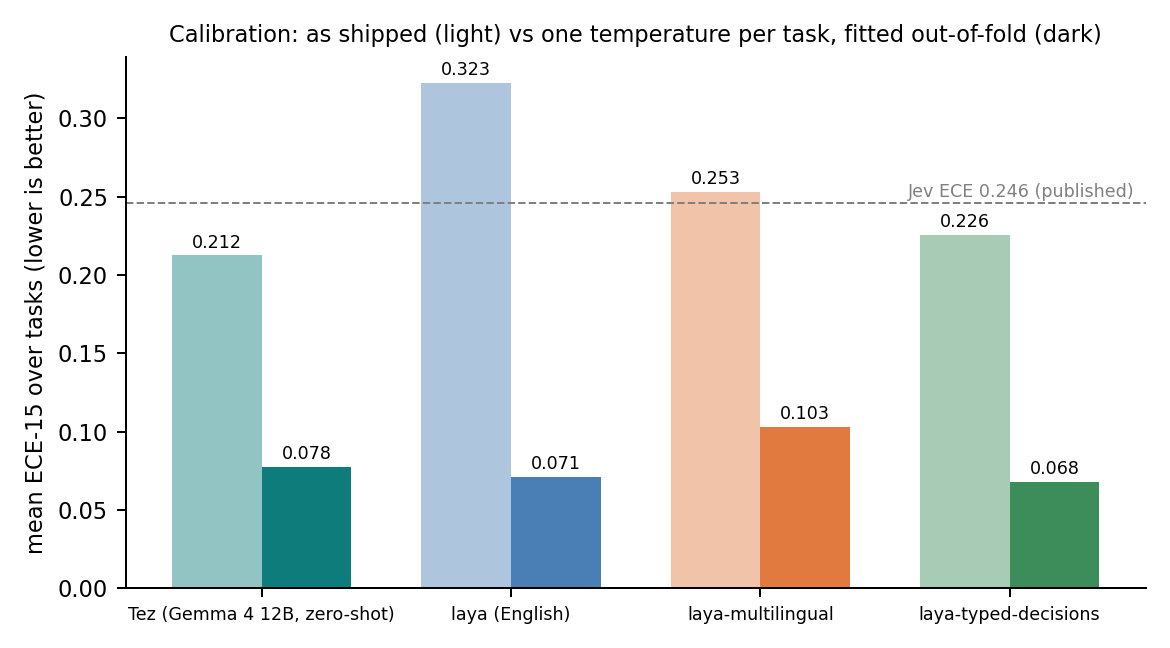
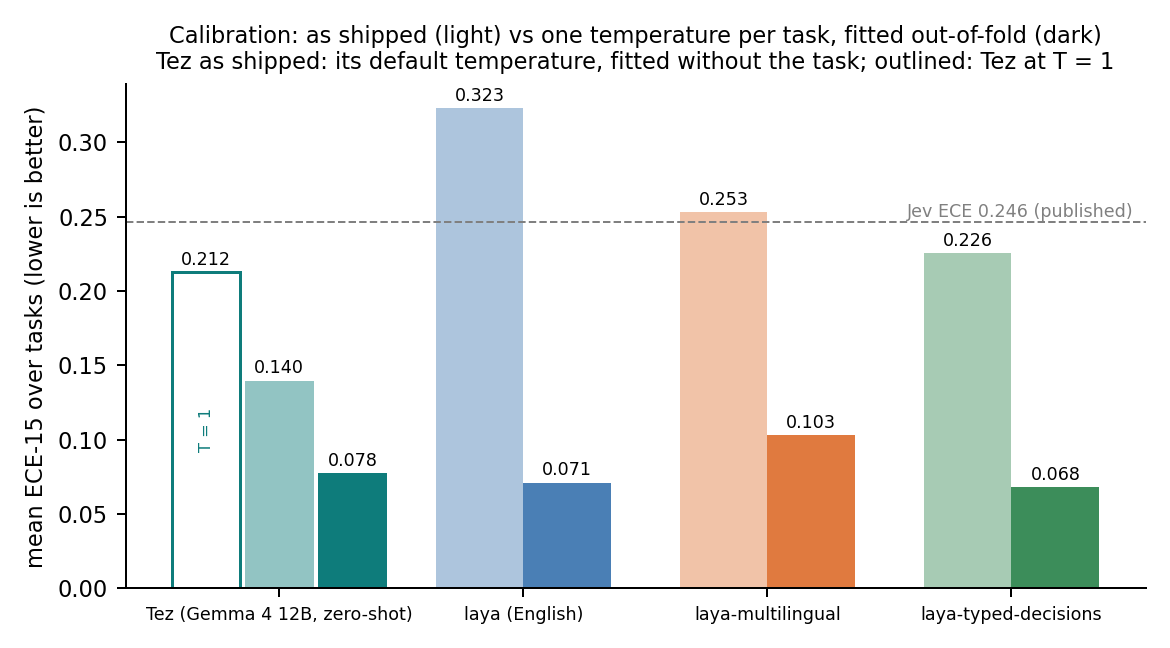
Research page: calibration figure shows Tez's default temperature
experiments/make_h2h_plots.py drew Tez's temperature-1 ECE (0.212) as
'as shipped'. Tez now ships its default temperature, so its light bar is
the default fitted without the task scored (0.140, the mean over the same
28 entries in results/calibration/default_temperature.json, anchor_28;
the script checks the entries and the T = 1 mean match
results/h2h/summary.json), T = 1 is drawn outlined beside it, and the
per-task refit stays 0.078. Laya's bars are unchanged. Only
calibration.png/.pdf are regenerated; the site copy carries the same
provenance text as before.

The research page caption gives the three Tez values, and the highlight
comparing the probe's ECE with the 12B's raw letters says 0.262 is at
temperature 1 and 0.051 at the default (typed-decisions).

diff --git a/site/research.html b/site/research.html
@@ -133,7 +133,7 @@
           <li><strong>Decide first, bind later.</strong> A probe trained on the usual option order still works on reversed options up to layer 14 and loses 20 points at layer 26: read at layer 18 if a schema may reorder its options.</li>
           <li><strong>A decision needs 64 numbers.</strong> One PCA learned from unlabelled traffic keeps 0.790 of 0.793, and a PCA learned on other workflows keeps 0.782 on a new one.</li>
           <li><strong>Label the typical rows first, and keep the zero-shot prior.</strong> Fifty typical labels per question on top of the 12B's zero-shot answers reach 0.766, the level of Laya's checkpoint fine-tuned on the whole train split.</li>
-          <li><strong>Calibrated as it comes.</strong> A logistic probe has an ECE of 0.023 as read, against 0.262 for the 12B's raw letters and 0.246 published for Jev.</li>
+          <li><strong>Calibrated as it comes.</strong> A logistic probe has an ECE of 0.023 as read, against 0.262 for the 12B's raw letters at temperature 1 (0.051 at the default temperature Tez now applies) and 0.246 published for Jev.</li>
           <li><strong>A guaranteed error rate.</strong> Conformal selection acts on 40 % of decisions with at most 5 % wrong (realised 5.2 %).</li>
           <li><strong>Train in English, use in eleven languages.</strong> A MASSIVE probe trained on English rows only scores 0.803 macro over eleven languages (laya-multilingual 0.524).</li>
           <li><strong>The benchmark is now the limit.</strong> Every supervised route lands at 0.79 to 0.80. Where the benchmark's own label is decisive the probe is right 98 % of the time; where its labels are split, 56 %.</li>
@@ -178,8 +178,8 @@
           </li>
           <li>
             <figure class="fig-card">
-              <a class="paper" href="./assets/figures/calibration.png"><img src="./assets/figures/calibration.png" width="1170" height="648" loading="lazy" decoding="async" alt="Bar chart of calibration error as shipped and after one temperature per task. Open full size."></a>
-              <figcaption><span class="fig-name">Calibration</span><span class="fig-desc">Mean ECE-15 over tasks as shipped and after one temperature per task, for Tez and Laya's three checkpoints, with Jev's published ECE as a reference line.</span><span class="fig-meta">calibration.png · 1170 × 648</span></figcaption>
+              <a class="paper" href="./assets/figures/calibration.png"><img src="./assets/figures/calibration.png" width="1170" height="648" loading="lazy" decoding="async" alt="Bar chart of calibration error as shipped and after one temperature per task, with Tez also at temperature 1. Open full size."></a>
+              <figcaption><span class="fig-name">Calibration</span><span class="fig-desc">Mean ECE-15 over tasks as shipped and after one temperature per task, for Tez and Laya's three checkpoints, with Jev's published ECE as a reference line. Tez as shipped reads at its default temperature, fitted without the task scored: 0.140, against 0.212 at temperature 1 (outlined) and 0.078 after one temperature per task.</span><span class="fig-meta">calibration.png · 1170 × 648</span></figcaption>
             </figure>
           </li>
           <li>

diff --git a/experiments/make_h2h_plots.py b/experiments/make_h2h_plots.py
@@ -2,7 +2,9 @@
 
   1. tez_vs_laya_vs_jev.png   accuracy on every public dataset: Tez (zero-shot) vs Laya routed vs Jev (published)
   2. languages.png            MASSIVE intent per language: Tez vs laya-en vs laya-ml (dot plot, Laya's chart)
-  3. calibration.png          ECE as shipped vs after temperature refit, every model
+  3. calibration.png          ECE as shipped vs after temperature refit, every model; Tez as shipped = its default
+                              temperature fitted without the task (results/calibration/default_temperature.json),
+                              with its temperature-1 ECE outlined beside it
   4. typed_decisions.png      the 2,000-decision benchmark: Tez zero-shot vs Laya base/fine-tuned vs Jev vs ceilings
   5. order_flip.png           option-order flip rate on choice tasks
   6. speed.png                ms per decision on this machine (same GPU) -- note Laya numbers are its own runtime
@@ -84,19 +86,41 @@ def main():
         ax.set_title("Every language, one frozen decoder vs two trained encoders", fontsize=9)
         save(fig, "languages")
 
-    # 3. calibration: ECE as shipped vs refit, averaged over tasks with both numbers
+    # 3. calibration: ECE as shipped vs refit, averaged over tasks with both numbers. Tez reads unfitted letters at its
+    #    default temperature (tez/temperature.py), so Tez as shipped is that default, fitted without the task scored
+    #    (results/calibration/default_temperature.json, anchor_28: the same entries); its T = 1 ECE is drawn outlined.
     models = [m for m in ("tez", "laya-en", "laya-ml", "laya-td") if any(m in v for v in S.values())]
+    tez_default = None
+    dt_path = Path("results/calibration/default_temperature.json")
+    if dt_path.exists():
+        A = json.loads(dt_path.read_text(encoding="utf-8"))["anchor_28"]
+        tez_rows = {t: v["tez"] for t, v in S.items() if "tez" in v and "ece_refit" in v["tez"]}
+        same = sorted(tez_rows) == sorted(e["entry"] for e in A["entries"])
+        if same and abs(sum(r["ece"] for r in tez_rows.values()) / len(tez_rows) - A["mean"]["raw"]) < 1e-9:
+            tez_default = A["mean"]["rule_loto"]
+        else:
+            print(f"WARNING: {dt_path} does not cover the same Tez entries as {args.summary}; Tez's default not drawn")
     fig, ax = plt.subplots(figsize=(6.5, 3.6))
     for j, m in enumerate(models):
         raw = [v[m]["ece"] for v in S.values() if m in v and "ece_refit" in v[m]]
         ref = [v[m]["ece_refit"] for v in S.values() if m in v and "ece_refit" in v[m]]
         if raw:
             a, b = sum(raw) / len(raw), sum(ref) / len(ref)
-            ax.bar(j - 0.18, a, 0.36, color=COL[m], alpha=0.45); ax.bar(j + 0.18, b, 0.36, color=COL[m])
-            ax.text(j - 0.18, a + 0.005, f"{a:.3f}", ha="center", fontsize=7); ax.text(j + 0.18, b + 0.005, f"{b:.3f}", ha="center", fontsize=7)
+            if m == "tez" and tez_default is not None:
+                ax.bar(j - 0.3, a, 0.28, color="white", edgecolor=COL[m], linewidth=1.2)
+                ax.text(j - 0.3, a + 0.005, f"{a:.3f}", ha="center", fontsize=7)
+                ax.text(j - 0.3, a / 2, "T = 1", ha="center", va="center", fontsize=6.5, color=COL[m], rotation=90)
+                a, xa, xb, w = tez_default, j, j + 0.3, 0.28
+            else:
+                xa, xb, w = j - 0.18, j + 0.18, 0.36
+            ax.bar(xa, a, w, color=COL[m], alpha=0.45); ax.bar(xb, b, w, color=COL[m])
+            ax.text(xa, a + 0.005, f"{a:.3f}", ha="center", fontsize=7); ax.text(xb, b + 0.005, f"{b:.3f}", ha="center", fontsize=7)
     ax.axhline(0.246, ls="--", color="grey", lw=0.8); ax.text(len(models) - 0.5, 0.25, "Jev ECE 0.246 (published)", fontsize=7, color="grey", ha="right")
     ax.set_xticks(range(len(models))); ax.set_xticklabels([NAME[m] for m in models], fontsize=7)
-    ax.set_ylabel("mean ECE-15 over tasks (lower is better)"); ax.set_title("Calibration: as shipped (light) vs one temperature per task, fitted out-of-fold (dark)", fontsize=9)
+    title = "Calibration: as shipped (light) vs one temperature per task, fitted out-of-fold (dark)"
+    if tez_default is not None:
+        title += "\nTez as shipped: its default temperature, fitted without the task; outlined: Tez at T = 1"
+    ax.set_ylabel("mean ECE-15 over tasks (lower is better)"); ax.set_title(title, fontsize=9)
     save(fig, "calibration")
 
     # 4. typed decisions
